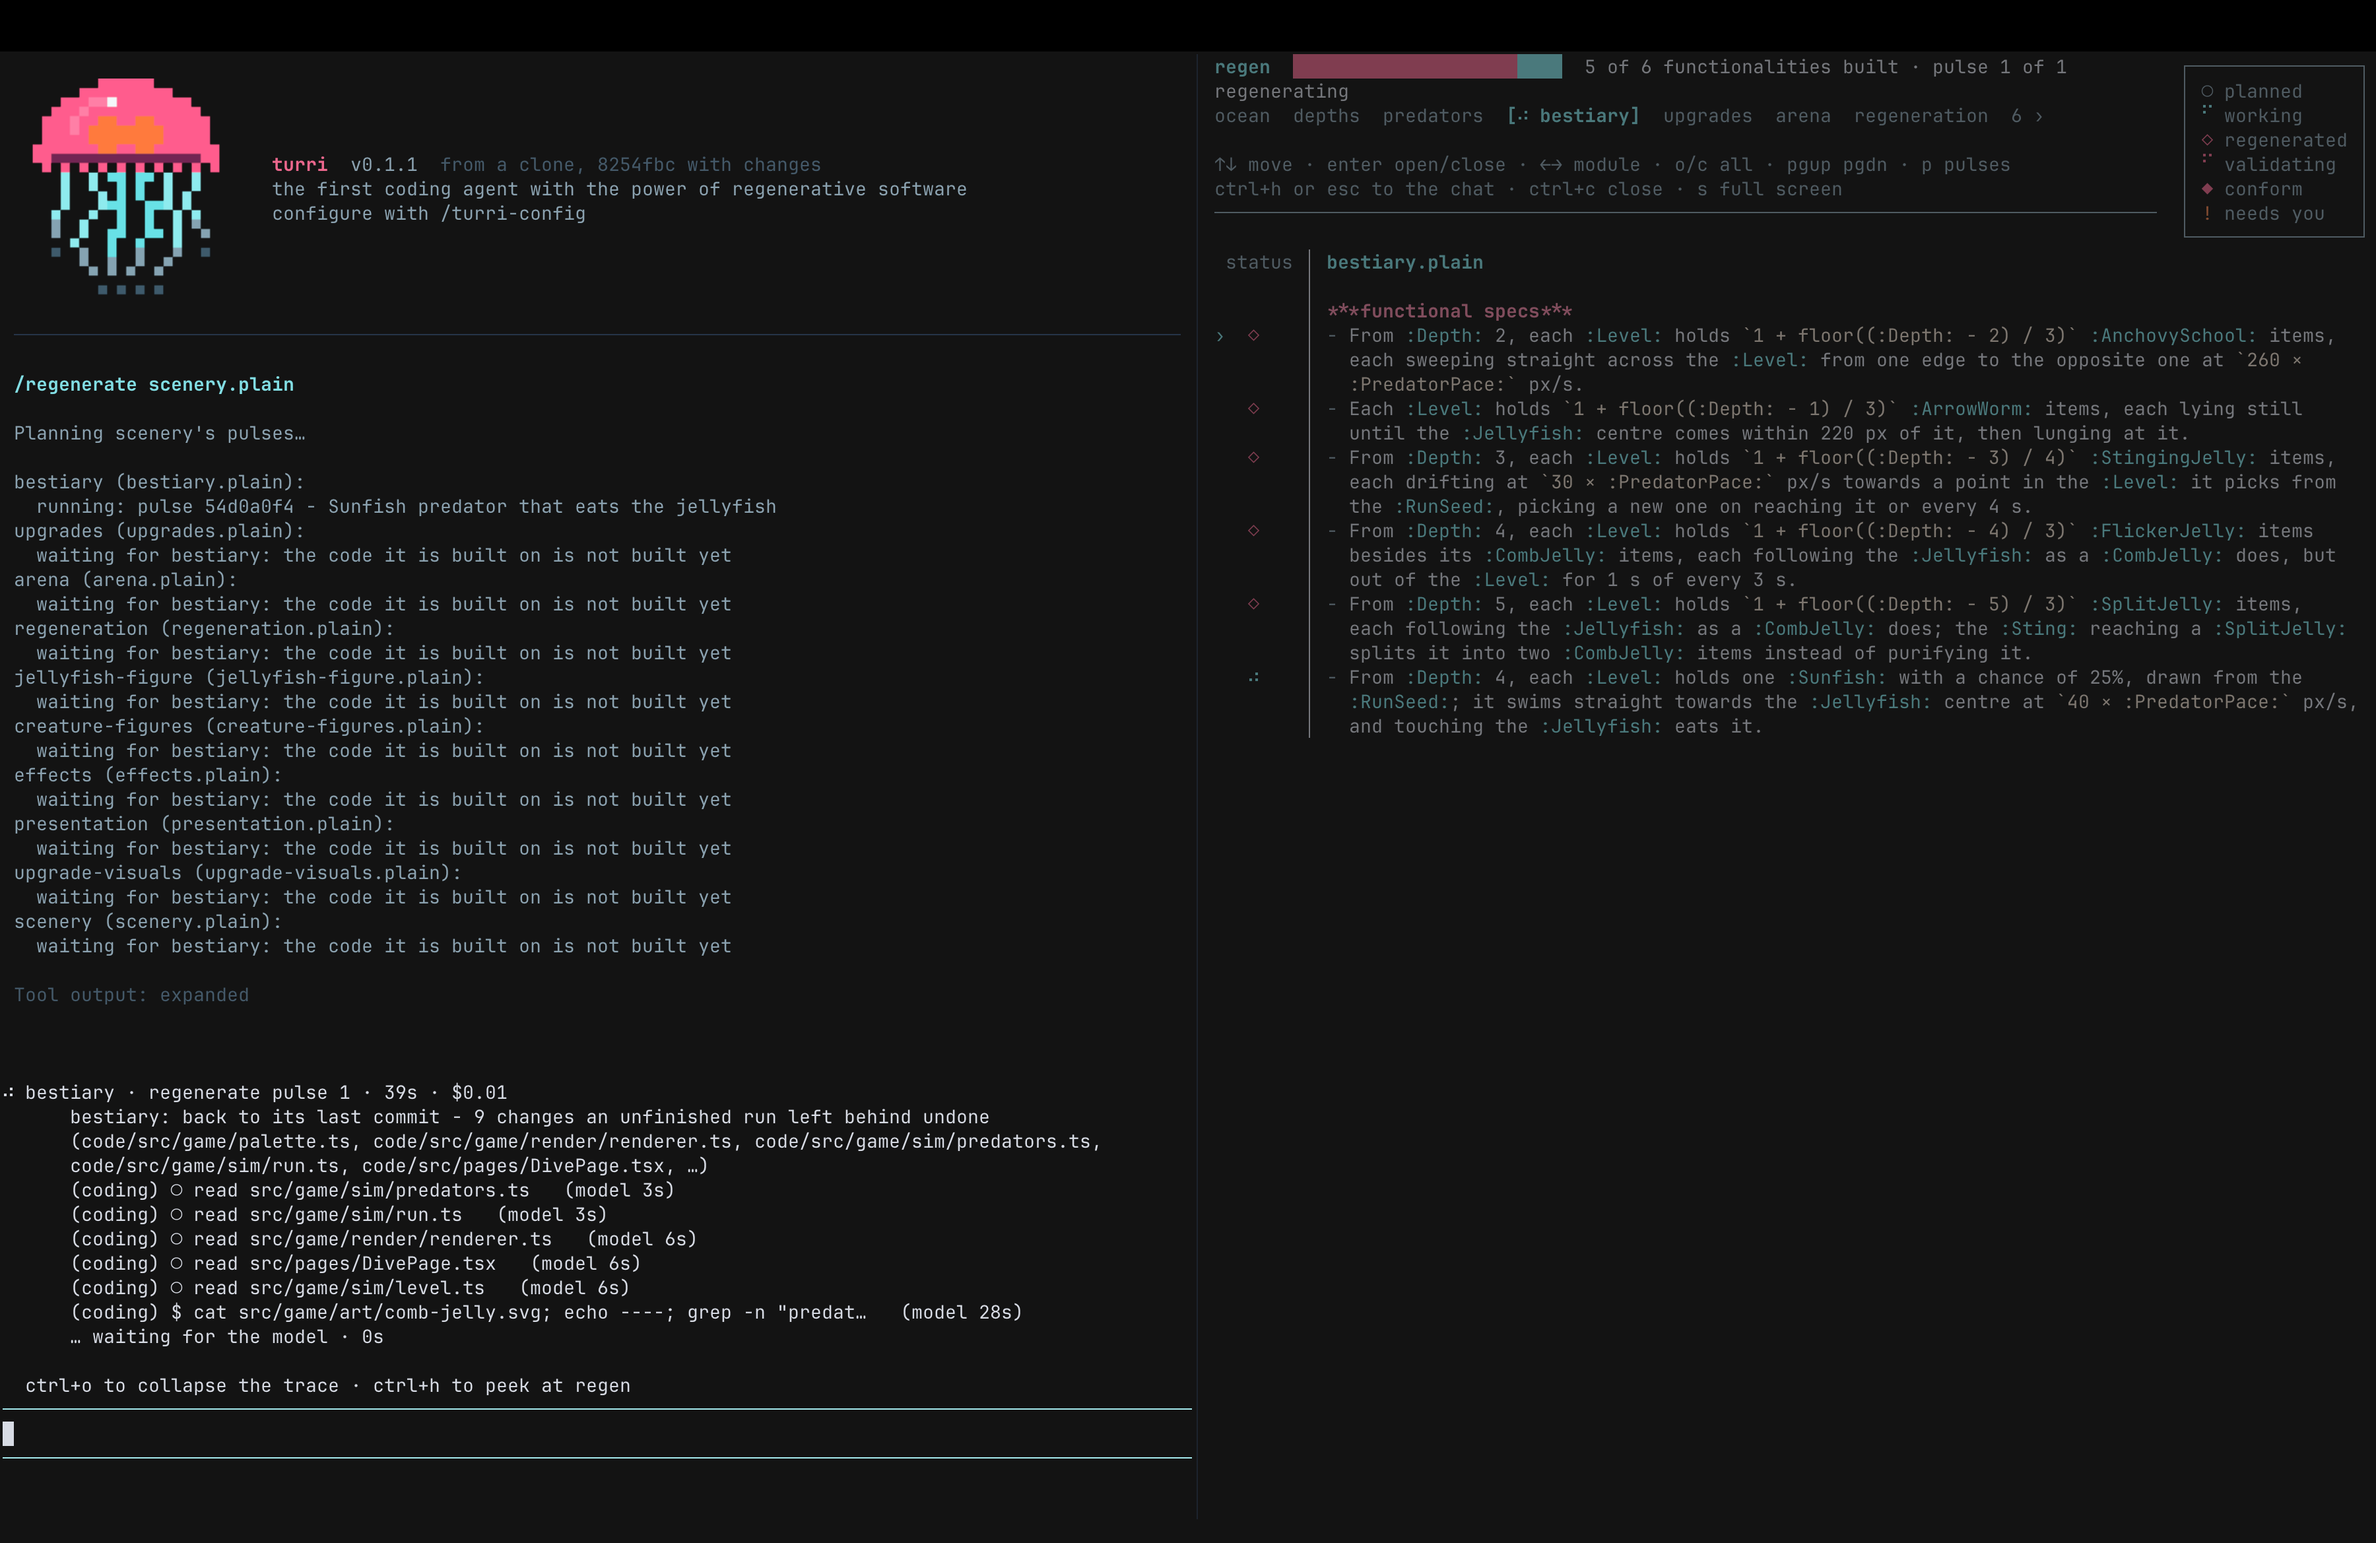
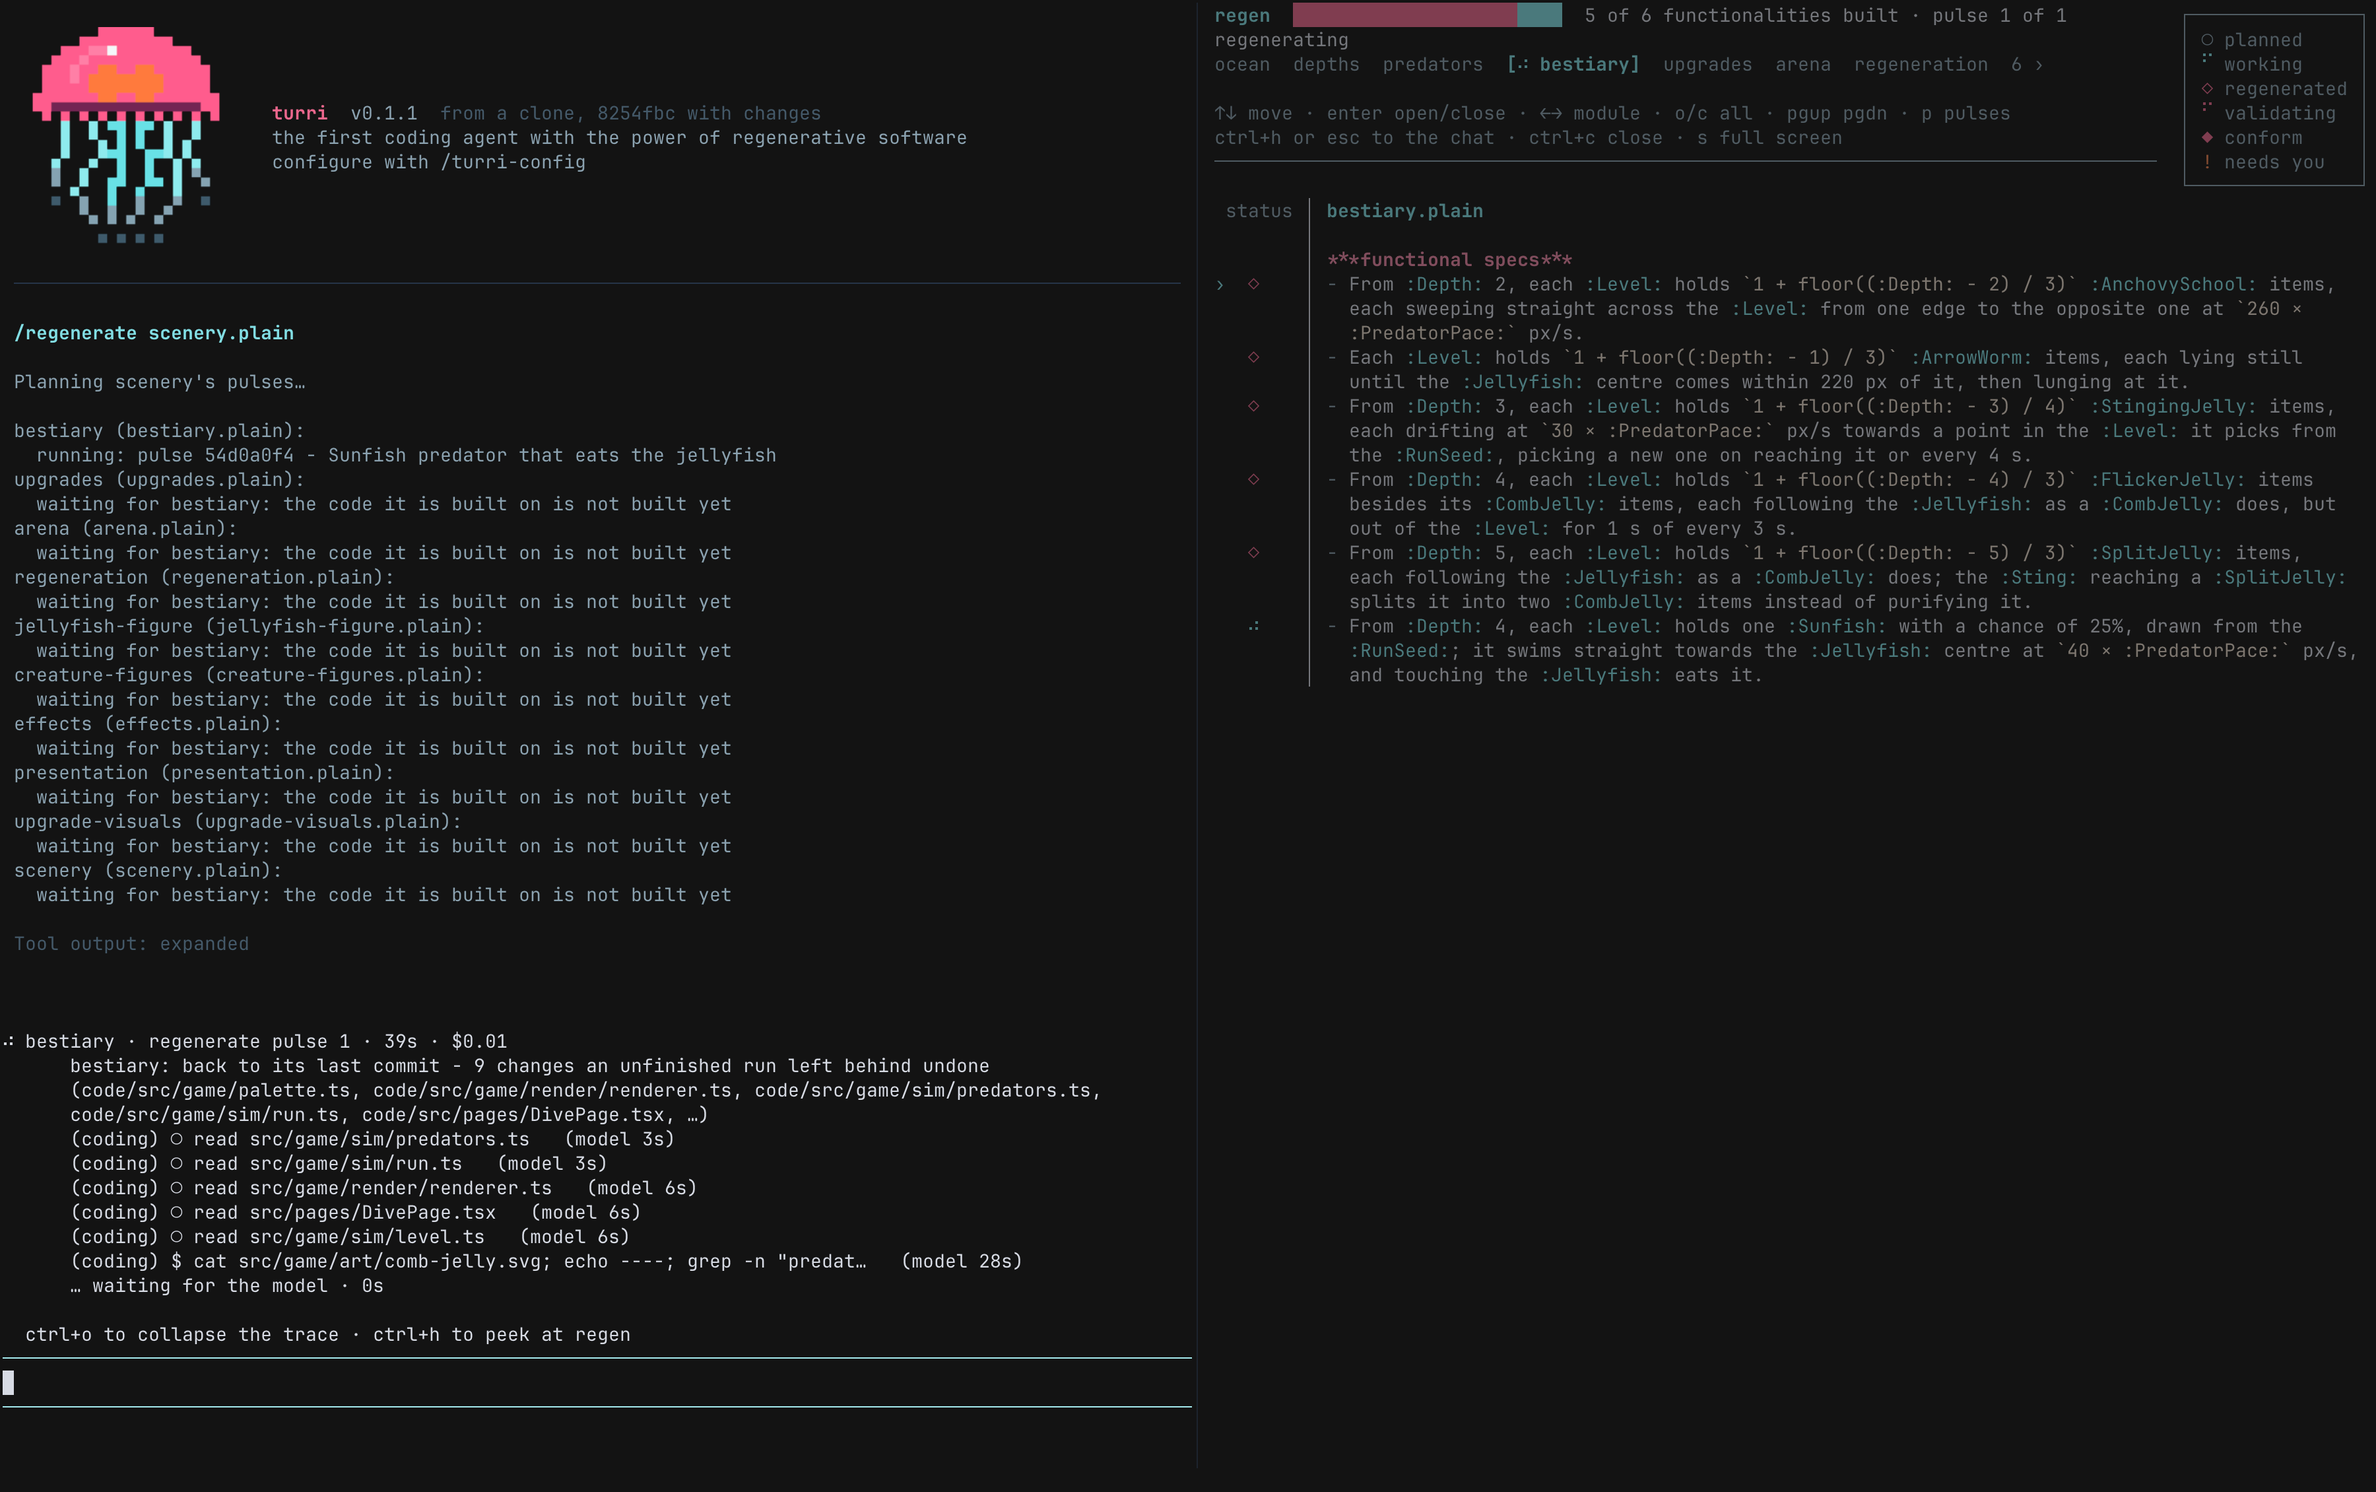
docs(readme): open how it works with the screenshot, and have turri write the ***plain
The screenshot goes straight under the heading, cropped of the black band along its top. The first step says what it
is: you say what the software should do, and turri writes it down as ***plain.

diff --git a/README.md b/README.md
@@ -101,16 +101,16 @@ With **turri** you work on the durable intent. You say what the software must do
 
 ## How it works
 
+<p align="center"><img src="docs/images/turri-screenshot.png" width="900" alt="turri in the terminal: on the left the conversation, where /regenerate plans a project's modules and a coding agent works through one of them; on the right the spec map of that module's ***plain, each functionality marked as regenerated or being worked on"></p>
+
 **turri** captures the durable intent in [\*\*\*plain](https://plainlang.org/), a language for saying what software should do. \*\*\*plain breaks the intent down into functionalities - small units, each a single thing the software does - and **turri** regenerates the code from them piece by piece.
 
-1. **Define.** Write \*\*\*plain with **turri**
+1. **Define.** You say what the software should do; **turri** writes it down as \*\*\*plain.
 2. **Review and refine.** You review \*\*\*plain and change it with **turri** until it says what you mean.
 3. **Regenerate.** Agents write the code; **turri** decides what they write and when, step by step, the same way every time.
 4. **Validate.** Agents write conformance tests from \*\*\*plain; **turri** runs them, and keeps the code only when it does what \*\*\*plain says.
 
 These are not phases, one after the other: you don't spend hours writing \*\*\*plain and then hours waiting for the code. You go round the loop in small steps, in conversation with **turri** - while you refine the next functionality, the one before it is already being regenerated and validated. A bug is fixed in \*\*\*plain; a new behaviour goes into \*\*\*plain; and the next regeneration carries it. Ask to try it at any time: **turri** puts what is built in `dist` and starts it on your machine - an app, and it tells you where to open your browser.
-
-<p align="center"><img src="docs/images/turri-screenshot.png" width="900" alt="turri in the terminal: on the left the conversation, where /regenerate plans a project's modules and a coding agent works through one of them; on the right the spec map of that module's ***plain, each functionality marked as regenerated or being worked on"></p>
 
 ## The name
 
